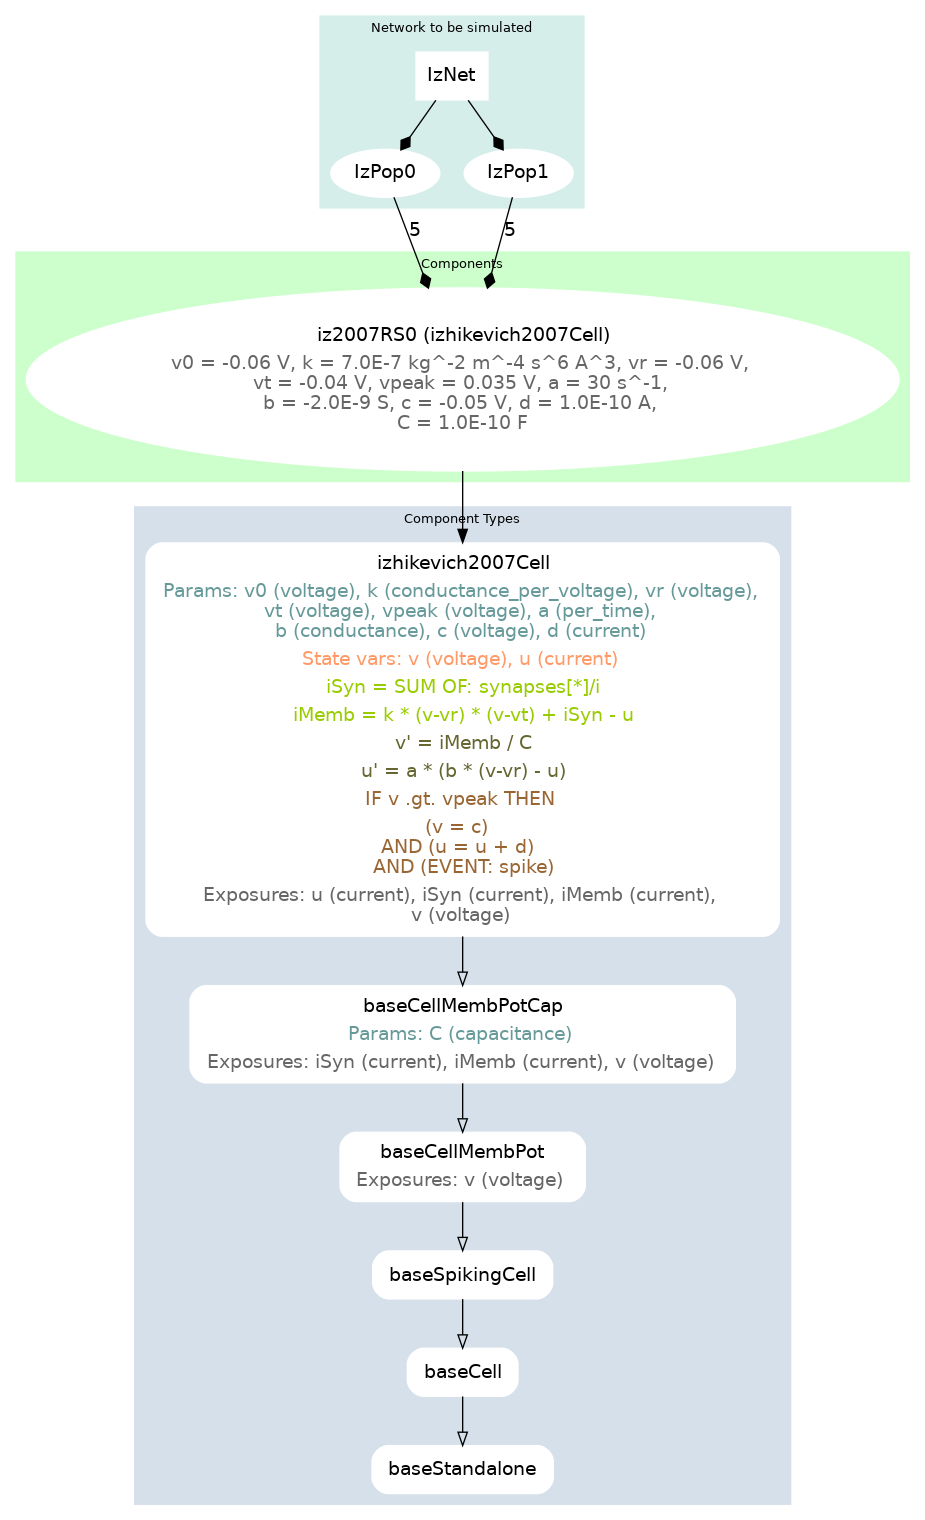
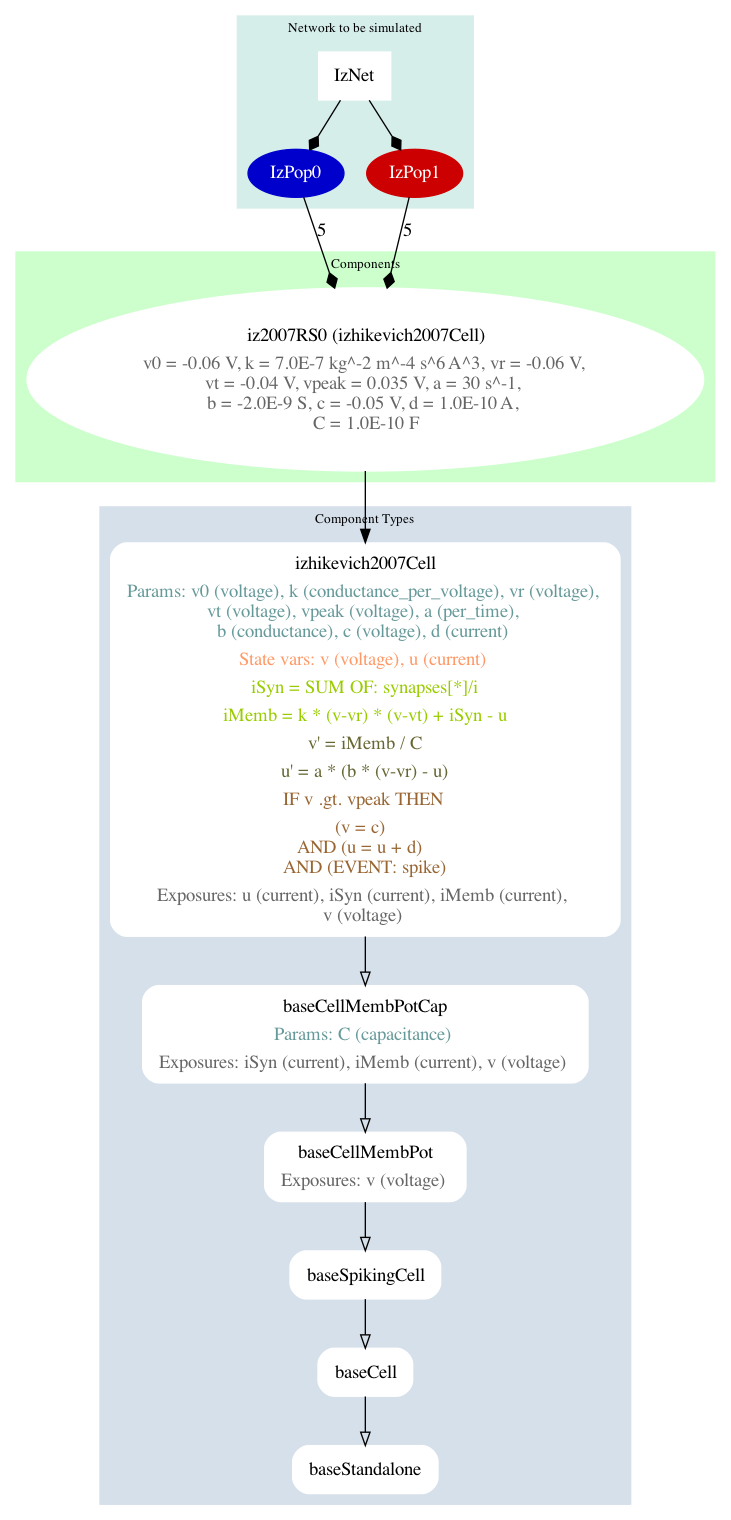
Updated Izh network example

diff --git a/source/Userdocs/NML2_examples/izhikevich-network.py b/source/Userdocs/NML2_examples/izhikevich-network.py
@@ -12,12 +12,12 @@ from neuroml import Projection
 from neuroml import PulseGenerator
 from neuroml import ExplicitInput
 from neuroml import Connection
+from neuroml import Property
 import neuroml.writers as writers
 import random
 from pyneuroml import pynml
 from pyneuroml.lems import LEMSSimulation
 import numpy as np
-
 
 nml_doc = NeuroMLDocument(id="IzNet")
 
@@ -34,23 +34,26 @@ nml_doc.networks.append(net)
 
 size0 = 5
 pop0 = Population(id="IzPop0", component=iz0.id, size=size0)
+# Set optional color property. Note: used later when generating graphs etc.
+pop0.properties.append(Property(tag='color', value='0 0 .8'))
 net.populations.append(pop0)
 
 size1 = 5
 pop1 = Population(id="IzPop1", component=iz0.id, size=size1)
+pop1.properties.append(Property(tag='color', value='.8 0 0'))
 net.populations.append(pop1)
 
 proj = Projection(id='proj', presynaptic_population=pop0.id,
                   postsynaptic_population=pop1.id, synapse=syn0.id)
 net.projections.append(proj)
 
-random.seed(921)
-prob_connection = 0.5
+random.seed(123)
+prob_connection = 0.8
 count = 0
 for pre in range(0, size0):
     pg = PulseGenerator(
-        id="pulseGen_%i" % pre, delay="0ms", duration="10000ms",
-        amplitude="%f nA" % (0.1 * random.random())
+        id="pg_%i" % pre, delay="0ms", duration="10000ms",
+        amplitude="%f nA" % (0.1 + 0.1 * random.random())
     )
     nml_doc.pulse_generators.append(pg)
 
@@ -74,17 +77,23 @@ pynml.validate_neuroml2(nml_file)
 
 simulation_id = "example_izhikevich2007network_sim"
 simulation = LEMSSimulation(sim_id=simulation_id,
-                            duration=10000, dt=0.1, simulation_seed=123)
+                            duration=1000, dt=0.1, simulation_seed=123)
 simulation.assign_simulation_target(net.id)
 simulation.include_neuroml2_file(nml_file)
 
 simulation.create_event_output_file(
-    "pop0", "%s.spikes.dat" % simulation_id, format='ID_TIME'
+    "pop0", "%s.0.spikes.dat" % simulation_id, format='ID_TIME'
 )
-
 for pre in range(0, size0):
     simulation.add_selection_to_event_output_file(
         "pop0", pre, 'IzPop0[{}]'.format(pre), 'spike')
+
+simulation.create_event_output_file(
+    "pop1", "%s.1.spikes.dat" % simulation_id, format='ID_TIME'
+)
+for pre in range(0, size1):
+    simulation.add_selection_to_event_output_file(
+        "pop1", pre, 'IzPop1[{}]'.format(pre), 'spike')
 
 lems_simulation_file = simulation.save_to_file()
 
@@ -94,11 +103,17 @@ pynml.run_lems_with_jneuroml_neuron(
 
 # Load the data from the file and plot the spike times
 # using the pynml generate_plot utility function.
-data_array = np.loadtxt("%s.spikes.dat" % simulation_id)
+data_array_0 = np.loadtxt("%s.0.spikes.dat" % simulation_id)
+data_array_1 = np.loadtxt("%s.1.spikes.dat" % simulation_id)
+times_0 = data_array_0[:,1]
+times_1 = data_array_1[:,1]
+ids_0 = data_array_0[:,0]
+ids_1 = [id+size0 for id in data_array_1[:,0]]
 pynml.generate_plot(
-    [data_array[:, 1]], [data_array[:, 0]],
+    [times_0,times_1], [ids_0,ids_1],
     "Spike times", show_plot_already=False,
     save_figure_to="%s-spikes.png" % simulation_id,
     xaxis="time (s)", yaxis="cell ID",
-    linestyles='', linewidths='0', markers=['.'],
+    colors=['b','r'],
+    linewidths=['0','0'], markers=['.','.'],
 )

diff --git a/source/Userdocs/IzhikevichNetworkExample.md b/source/Userdocs/IzhikevichNetworkExample.md
@@ -9,7 +9,7 @@ We will create a small network of cells, simulate this network, and generate a p
 :alt: Spike times of neurons recorded from the simulation
 :align: center
 
-Spike times of neurons recorded from the simulation.
+Spike times of neurons in 2 populations recorded from the simulation.
 ```
 
 The Python script used to create the model, simulate it, and generate this plot is below:
@@ -34,11 +34,11 @@ lines: 22-30
 Here, we create a new document, declare the {ref}`Izhikevich neuron<schema:izhikevich2007Cell>`, and also declare the synapse that we are going to use to connect one population of neurons to the other.
 Here we intend to use the {ref}`ExpOne Synapse<schema:exponesynapse>`, where the conductance of the synapse increases instantaneously by a constant value `gbase` on receiving a spike, and then decays exponentially with a decay constant `tauDecay`.
 
-We can now declare our {ref}`network <schema:network>` with 2 {ref}`populations <schema:population>` of these cells:
+We can now declare our {ref}`network <schema:network>` with 2 {ref}`populations <schema:population>` of these cells. Note: setting a color as a  {ref}`property <schema:property>` is optional, but is used in soem other tools like generating graphs below.
 ```{literalinclude} ./NML2_examples/izhikevich-network.py
 ----
 language: python
-lines: 32-41
+lines: 32-43
 ----
 ```
 
@@ -51,7 +51,7 @@ While we are iterating over all our pre-synaptic cells here, we also add externa
 ```{literalinclude} ./NML2_examples/izhikevich-network.py
 ----
 language: python
-lines: 43-67
+lines: 46-70
 ----
 ```
 We can now save and validate our model, as before:
@@ -60,7 +60,7 @@ We can now save and validate our model, as before:
 ```{literalinclude} ./NML2_examples/izhikevich-network.py
 ----
 language: python
-lines: 69-73
+lines: 72-76
 ----
 ```
 ### The generated NeuroML model
@@ -83,7 +83,7 @@ Another point worth noting here is that because we've defined a population of th
 <!-- TODO: why are the pulseGens not referred to as ../PulseGens? They're at the previous level too. Are they the top level and thus considered to be global? -->
 
 The advantage of such a declarative format is that we can also easily get information on our model from the NeuroML file.
-pyNeuroML includes the helper `pynml-summary` script:
+{ref}`pyNeuroML <pyNeuroML>` includes the helper `pynml-summary` script:
 
 ```{code-block} console
 $ pynml-summary izhikevich2007_network.nml
@@ -118,13 +118,9 @@ $ pynml-summary izhikevich2007_network.nml
 ```
 <!-- TODO: Ask Padraig what's the difference between direct Synapses and projections, and when should they be used? -->
 
-We can also generate a graphical summary of our model using `pynml`:
+We can also generate a graphical summary of our model using `pynml` from {ref}`pyNeuroML <pyNeuroML>`:
 ```{code-block} console
-$ pynml izhikevich2007_network.nml -graph 2
-neuromllite >>> Initiating GraphViz handler, level 2, engine: dot, seed: 1234
-Parsing: izhikevich2007_network.nml
-Loaded: izhikevich2007_network.nml as NeuroMLDocument
-....
+$ pynml izhikevich2007_network.nml -graph 3
 ```
 
 This generates the following model summary diagram:
@@ -135,6 +131,21 @@ This generates the following model summary diagram:
 
 A summary graph of the model generated using pynml and the dot tool.
 ```
+
+
+Other options for `pynml` produce other views, e.g individual connections:
+```{code-block} console
+$ pynml izhikevich2007_network.nml -graph -1
+```
+
+```{figure} ../Userdocs/NML2_examples/IzNet-1.gv.png
+:alt: Model summary graph showing individual connections between cells in the populations.
+:align: center
+:scale: 70%
+
+Model summary graph showing individual connections between cells in the populations.
+```
+
 In our very simple network here, neurons do not have morphologies and are not distributed in space.
 In later examples, however, we will also see how summary figures of the network that show the morphologies, locations of different layers and neurons, and so on can also be generated using the NeuroML tools.
 
@@ -146,7 +157,7 @@ We create our simulation, and setup the information we want to record from it.
 ```{literalinclude} ./NML2_examples/izhikevich-network.py
 ----
 language: python
-lines: 75-89
+lines: 78-98
 ----
 ```
 The generated LEMS file is here:
@@ -157,30 +168,25 @@ language: xml
 ```
 
 <!-- BUG in pynml needs fixing: https://github.com/NeuralEnsemble/libNeuroML/issues/91 -->
-Where we had generated a graphical summary of the model before, we can now also generate graphical summaries of the simulation using `jnml`:
+Where we had generated a graphical summary of the model before, we can now also generate graphical summaries of the simulation using `pynml` and the `-lems-graph` option. This dives deeper into the LEMS definition of the cells, showing more of the underlying dynamics of the components:
 ```{code-block} console
-$ jnml LEMS_example_izhikevich2007network_sim.xml -graph
- jNeuroML v0.10.1
- (INFO) Reading from: .../NeuroML-Documentation/source/Userdocs/NML2_examples/LEMS_example_izhikevich2007network_sim.xml
- (INFO) simCpt: Component(id=example_izhikevich2007network_sim type=Simulation)
- Writing to: .../NeuroML-Documentation/source/Userdocs/NML2_examples/LEMS_example_izhikevich2007network_sim.gv
- Have successfully run command: dot -Tpng  .../NeuroML-Documentation/source/Userdocs/NML2_examples/LEMS_example_izhikevich2007network_sim.gv -o .../NeuroML-Documentation/source/Userdocs/NML2_examples/LEMS_example_izhikevich2007network_sim.png
+$ pynml LEMS_example_izhikevich2007network_sim.xml -lems-graph
 ```
 
 Here is the generated summary graph:
 ```{figure} ../Userdocs/NML2_examples/LEMS_example_izhikevich2007network_sim.png
-:alt: Model summary graph generated using jnml.
+:alt: Model summary graph generated using pynml.
 :align: center
 :scale: 50%
 
-A summary graph of the model generated using jnml.
+A summary graph of the model generated using pynml -lems-graph.
 ```
 It shows a top-down breakdown of the simulation: from the network, to the populations, to the cell types, leading up to the components that these cells are made of (more on Components later).
 Let us add the necessary code to run our simulation, this time using the well known NEURON simulator:
 ```{literalinclude} ./NML2_examples/izhikevich-network.py
 ----
 language: python
-lines: 91-93
+lines: 100-102
 ----
 ```
 (userdocs:gettingstarted:izhikevichnetwork:plotting)=
@@ -192,14 +198,14 @@ So let us plot them to generate our figure:
 ```{literalinclude} ./NML2_examples/izhikevich-network.py
 ----
 language: python
-lines: 95-104
+lines: 104-119
 ----
 ```
 Observe how we are using the same `generate_plot` utility function as before: it is general enough to plot different recorded quantities.
-Under the hood, it passes this information to Python's Matplotlib library.
+Under the hood, it passes this information to Python's Matplotlib library. This produces the rasterplot shown at the top of the page.
 
 
 This concludes our second example.
 Here, we have seen how to create, simulate, and record from a simple two population network of single compartment point neurons.
 The next section is an interactive notebook that you can use to play with this example.
-After that we will move on to the next example: a single but more detailed multi-compartmental neuron model.
+After that we will move on to the next example: a neuron model using Hodgkin Huxley style ion channels.
